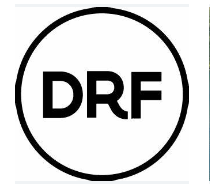
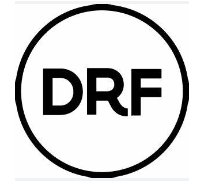
init

Changed region(s): [[0.0594, 0.0, 0.9505, 0.9574], [0.1782, 0.3457, 0.802, 0.6383], [0.9802, 0.0266, 1.0, 0.9574]]

diff --git a/index.html b/index.html
@@ -365,13 +365,12 @@
                                     </div>
     
                                     <div class="skills__data">
-                                        <i class="ri-checkbox-line"></i>
+                                        <img src="DB/drf.PNG" alt="404" id="icon">
                                         <div>
                                             <h3 class="skills__name">Django-Rest-Framework</h3>
                                             <span class="skills__level">Intermediate</span>
                                         </div>
                                     </div>
-    -->
                                 </div>
                             </div>
 
